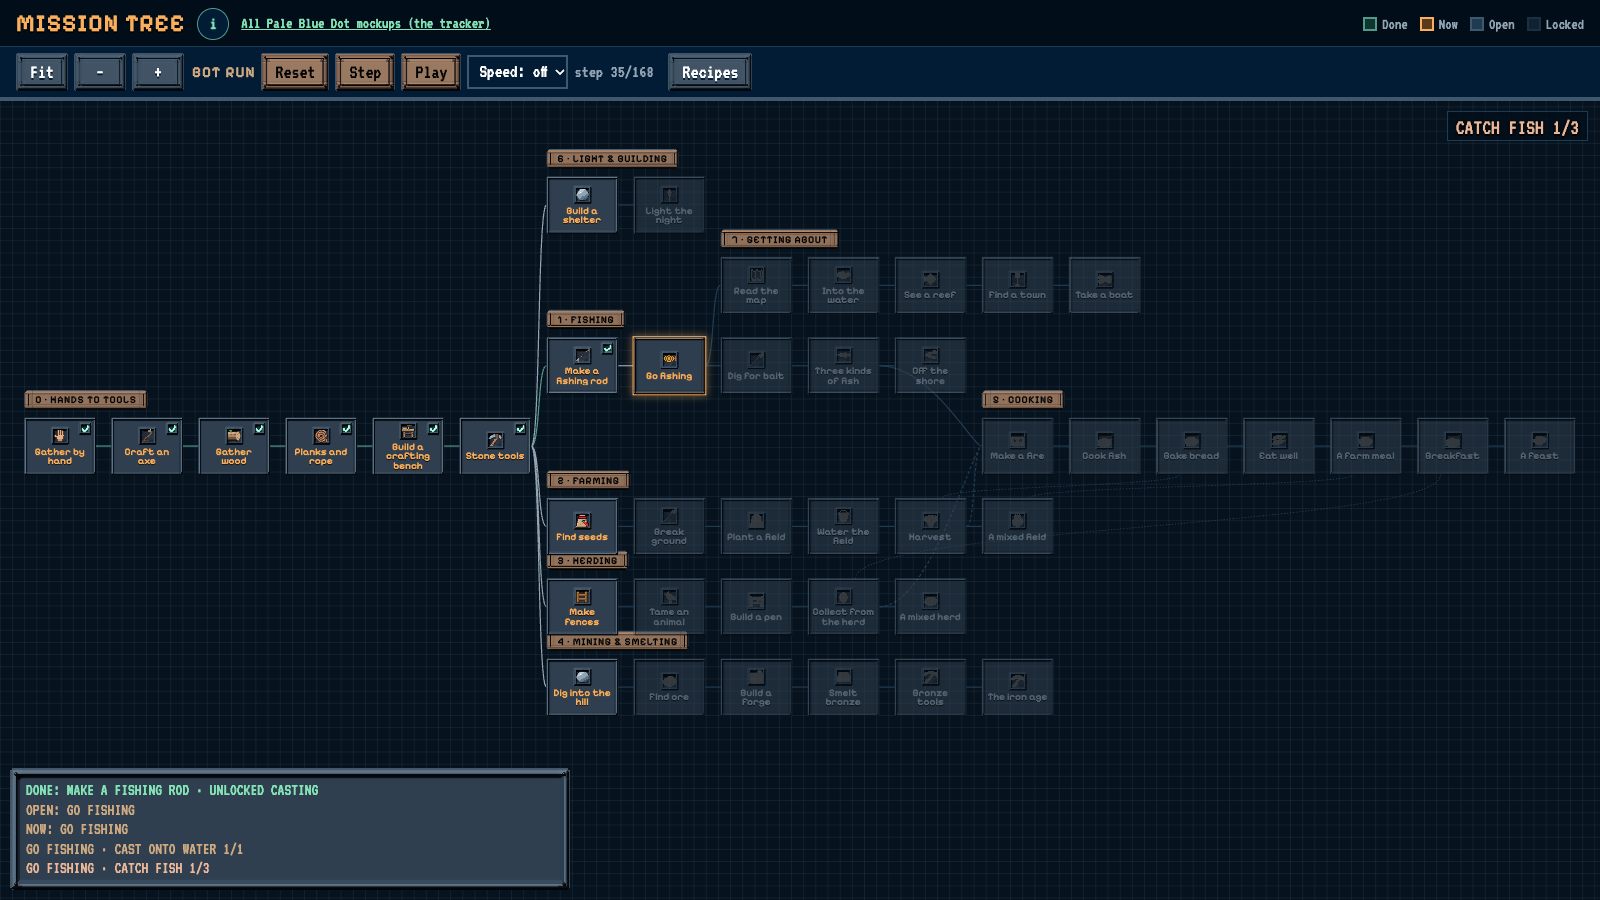
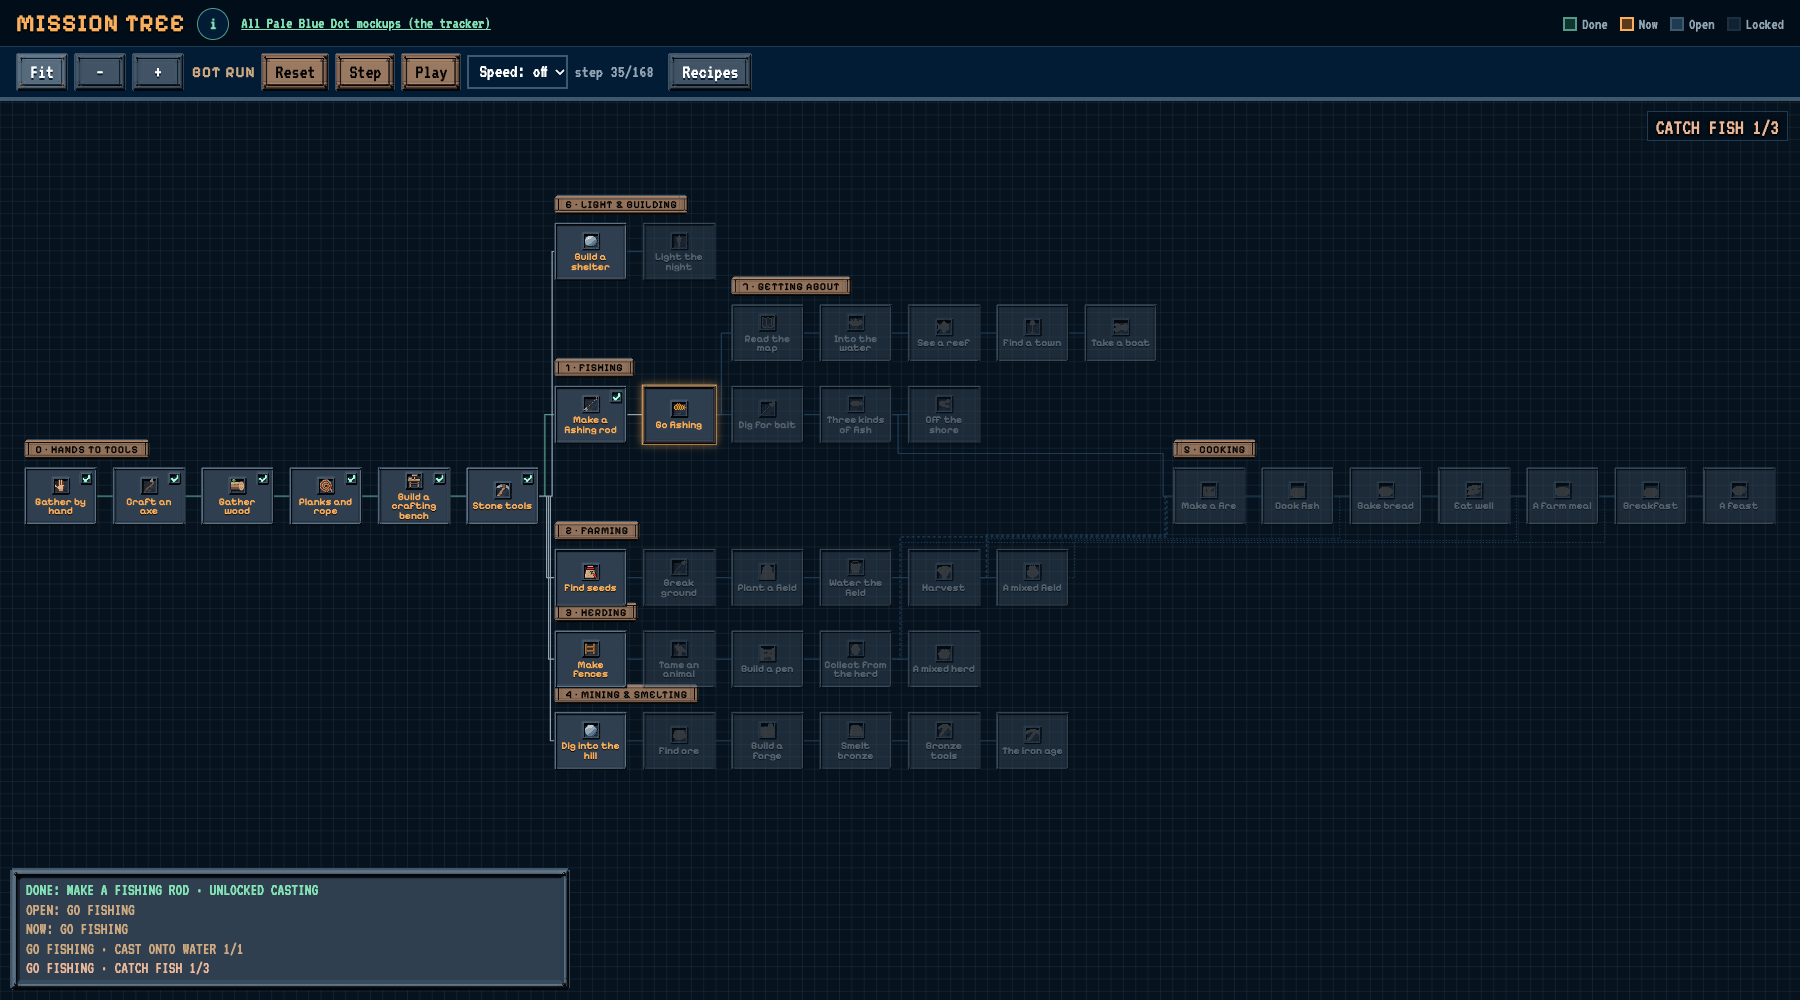
M33 version 2: cooking moved right, every link routed through the gaps so none crosses a card (owner, 2026-11-15)
Claude-Session: https://claude.ai/code/session_01RGPQupt5gFppY4ZgrT9RgH

Changed region(s): [[0.0, 0.1556, 0.9688, 0.8089], [0.0, 0.0, 1.0, 0.1556], [0.0, 0.84, 0.375, 0.9956]]

diff --git a/docs/mockups/mission-tree/tree.js b/docs/mockups/mission-tree/tree.js
@@ -150,23 +150,23 @@
       help: "Iron ore smelts hotter: feed the forge more coal." },
 
     // 5. Cooking
-    { id: "fire", b: "cooking", col: 11, row: 3, icon: "campfire", title: "Make a fire", needs: [["three-kinds"], ["harvest", "collect"]],
+    { id: "fire", b: "cooking", col: 13, row: 3, icon: "campfire", title: "Make a fire", needs: [["three-kinds"], ["harvest", "collect"]],
       obj: [o("craft a campfire", 1, "craft a campfire (new recipe)", true), o("place it", 1, "place the campfire")], unl: ["campfire-dishes"],
       help: "Make a campfire in the Craft row from five loose stone and two logs, and set it down near water." },
-    { id: "cook-fish", b: "cooking", col: 12, row: 3, icon: "grilled-fish", title: "Cook fish", needs: [["fire"]],
+    { id: "cook-fish", b: "cooking", col: 14, row: 3, icon: "grilled-fish", title: "Cook fish", needs: [["fire"]],
       obj: [o("cook grilled fish", 2, "cook 2 grilled-fish")], unl: [], help: "Open the campfire with E and grill the fish you caught." },
-    { id: "bread", b: "cooking", col: 13, row: 3, icon: "flatbread", title: "Bake bread", needs: [["cook-fish"]], uses: ["harvest"],
+    { id: "bread", b: "cooking", col: 15, row: 3, icon: "flatbread", title: "Bake bread", needs: [["cook-fish"]], uses: ["harvest"],
       obj: [o("cook flatbread", 2, "cook 2 flatbread from your wheat")], unl: [], help: "At the campfire, bake flatbread from wheat you grew." },
-    { id: "eat", b: "cooking", col: 14, row: 3, icon: "kale-skewer", title: "Eat well", needs: [["bread"]],
+    { id: "eat", b: "cooking", col: 16, row: 3, icon: "kale-skewer", title: "Eat well", needs: [["bread"]],
       obj: [o("eat a dish", 1, "eat 1 dish; its effect shows", true)], unl: [],
       help: "Put a dish on the hotbar and use it; its effect shows beside the health bar." },
-    { id: "farm-meal", b: "cooking", col: 15, row: 3, icon: "roast-turnip", title: "A farm meal", needs: [["eat"]], uses: ["three-crops"],
+    { id: "farm-meal", b: "cooking", col: 17, row: 3, icon: "roast-turnip", title: "A farm meal", needs: [["eat"]], uses: ["three-crops"],
       obj: [o("cook a farm dish", 1, "cook roast-turnip, kale-skewer or chili-fish")], unl: [],
       help: "At the campfire, cook a dish from your field." },
-    { id: "fried-egg", b: "cooking", col: 16, row: 3, icon: "fried-egg", title: "Breakfast", needs: [["farm-meal"]], uses: ["collect"],
+    { id: "fried-egg", b: "cooking", col: 18, row: 3, icon: "fried-egg", title: "Breakfast", needs: [["farm-meal"]], uses: ["collect"],
       obj: [o("cook a fried egg", 1, "cook a fried-egg from your hen's egg")], unl: [],
       help: "At the campfire, fry an egg from your own hens." },
-    { id: "feast", b: "cooking", col: 17, row: 3, icon: "chili-fish", title: "A feast", needs: [["fried-egg"]],
+    { id: "feast", b: "cooking", col: 19, row: 3, icon: "chili-fish", title: "A feast", needs: [["fried-egg"]],
       obj: [o("eat different dishes", 3, "eat 3 different dishes", true)], unl: ["kitchen"],
       help: "Eat three different dishes; every effect shows at once." },
 
@@ -287,27 +287,36 @@
     m.needs.forEach((g) => g.forEach((from) => edges.push({ from, to: m.id, kind: g.length > 1 ? "or" : "need" })));
     (m.uses || []).forEach((from) => edges.push({ from, to: m.id, kind: "uses" }));
   });
+  // Every link runs in the gaps: out of the source's side into the column gap
+  // beside it, along the row gap next to the target's row, down the column
+  // gap before the target, into its side. Cards sit only in the cells, so no
+  // link crosses one. Links sharing a gap are offset a few pixels apart.
+  const gapX = (c) => px(c) - GX / 2;            // the column gap left of column c
+  const gapY = (r) => py(r) - GY / 2;            // the row gap above row r
+  const lane = {};
+  const slot = (key) => { lane[key] = (lane[key] || 0) + 1; return (lane[key] - 1) * 6 - 6; };
   edges.forEach((e) => {
     const a = byId[e.from], b = byId[e.to];
-    let x1 = px(a.col) + CW, y1 = py(a.row) + CH / 2, x2 = px(b.col), y2 = py(b.row) + CH / 2;
+    const y1 = py(a.row) + CH / 2, y2 = py(b.row) + CH / 2;
+    const x1 = px(a.col) + CW, x2 = px(b.col);
     let d;
-    if (e.kind === "uses") {
-      // from the top or bottom of the source into the target's side
-      const up = b.row < a.row;
-      x1 = px(a.col) + CW / 2 + 40;
-      y1 = up ? py(a.row) : py(a.row) + CH;
-      x2 = px(b.col) + CW / 2 - 40;
-      y2 = up ? py(b.row) + CH : py(b.row);
-      const my = (y1 + y2) / 2;
-      d = `M${x1},${y1} C${x1},${my} ${x2},${my} ${x2},${y2}`;
-    } else if (a.row === b.row) {
+    if (a.row === b.row && b.col === a.col + 1) {
       d = `M${x1},${y1} L${x2},${y2}`;
     } else {
-      const mx = x1 + Math.max(30, (x2 - x1) / 2);
-      d = `M${x1},${y1} C${mx},${y1} ${x2 - 30},${y2} ${x2},${y2}`;
+      const xs = gapX(a.col + 1) + slot("c" + (a.col + 1));
+      const xt = gapX(b.col) + slot("c" + b.col + "t");
+      if (b.col === a.col + 1) {
+        d = `M${x1},${y1} L${xs},${y1} L${xs},${y2} L${x2},${y2}`;
+      } else {
+        // the row gap on the target's side: above it when coming down, below it when going up
+        const ry = b.row > a.row ? gapY(b.row) : b.row < a.row ? gapY(b.row + 1) : gapY(b.row + 1);
+        const yr = ry + slot("r" + ry);
+        d = `M${x1},${y1} L${xs},${y1} L${xs},${yr} L${xt},${yr} L${xt},${y2} L${x2},${y2}`;
+      }
     }
     const p = document.createElementNS("http://www.w3.org/2000/svg", "path");
     p.setAttribute("d", d);
+    p.setAttribute("fill", "none");
     e.el = p;
     svg.appendChild(p);
   });

diff --git a/docs/mockups/tracker.html b/docs/mockups/tracker.html
@@ -263,7 +263,7 @@ const MOCKUPS = [
     url: 'https://claude.ai/artifact/RWhyiQ2VjgrZ5bBA7eAaiG', published: '2026-11-15', version: 1,
     summary: 'Where rain lands: crowns on puddles and spray on wet ground, GPU particles beside today\'s rain, by day and lit at night.' },
   { id: 'M33', batch: 'new', title: 'Mission Tree', change: 'starter-missions', page: 'docs/mockups/mission-tree.html',
-    url: 'https://claude.ai/artifact/KbcisoBN426euC3rCEYzH1', published: '2026-11-15', version: 1,
+    url: 'https://claude.ai/artifact/KbcisoBN426euC3rCEYzH1', published: '2026-11-15', version: 2,
     summary: 'The missions as a tree that unlocks the tech: a trunk and seven branches, 42 missions, and a bot run that plays them.' },
 ];
 
